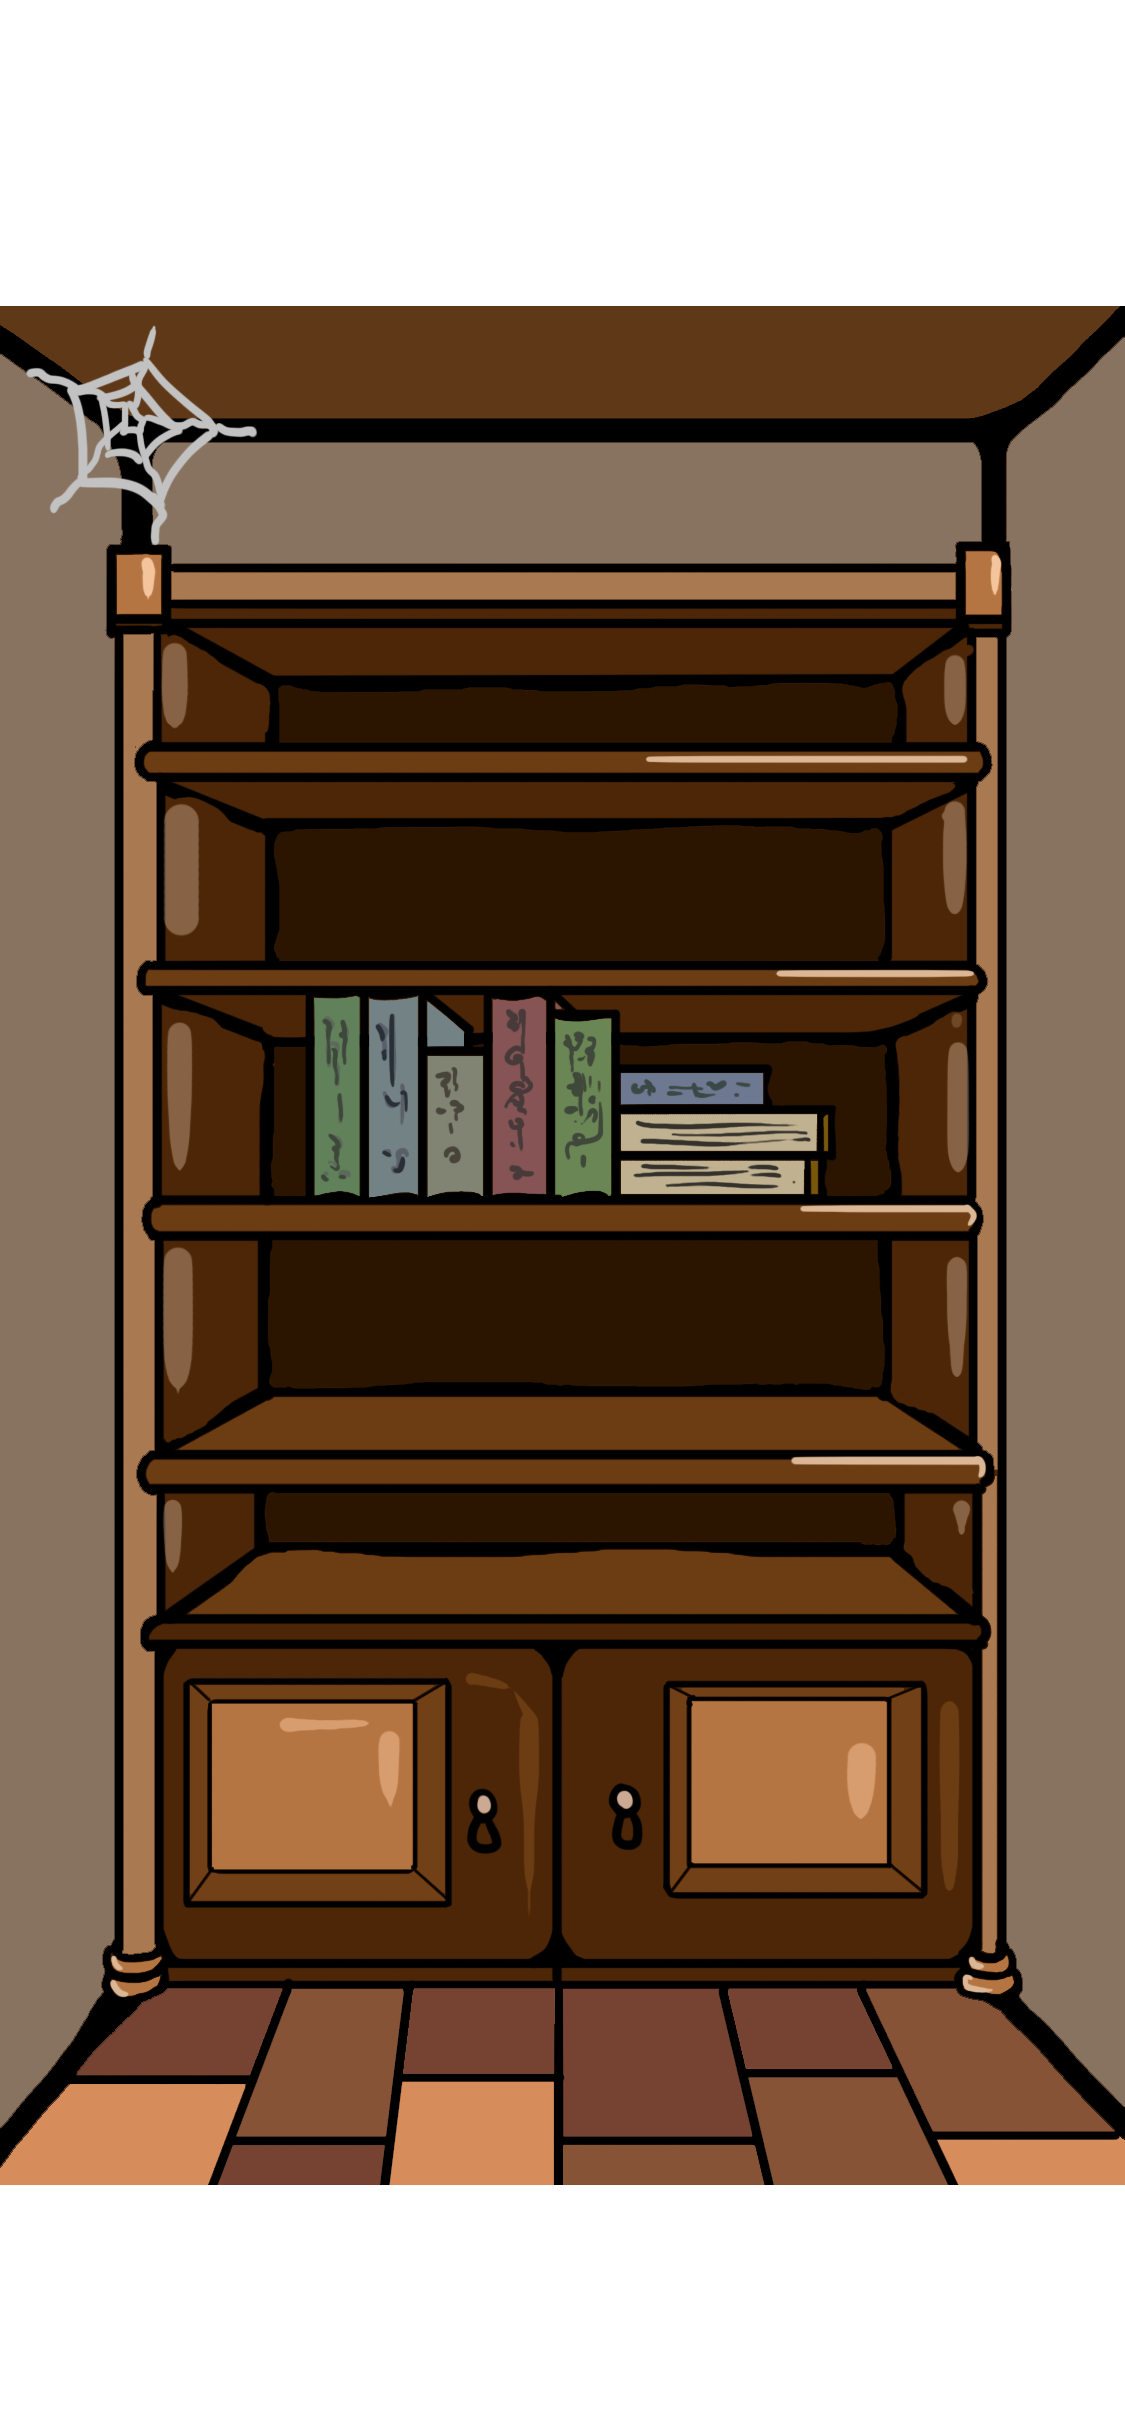
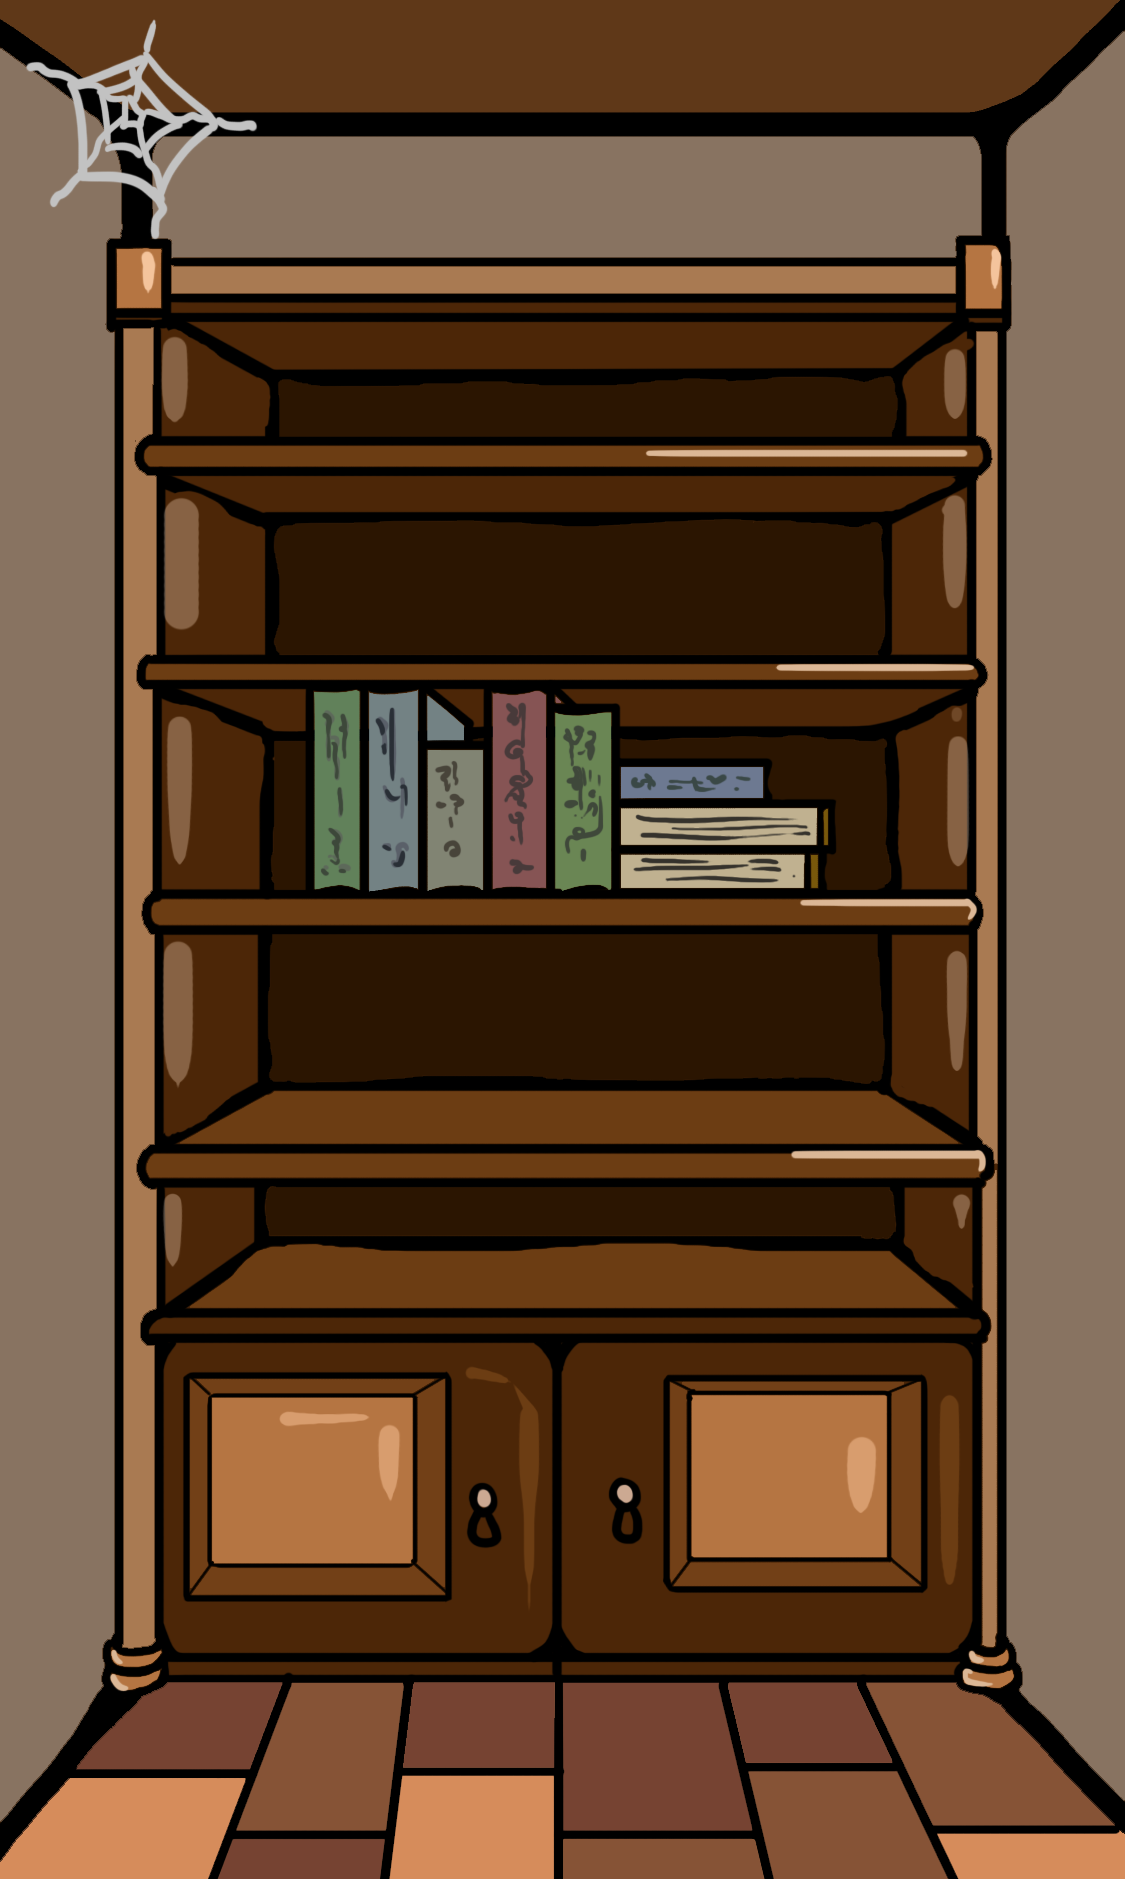
Fixed libraryFront

diff --git a/Phaser Game/js/library.js b/Phaser Game/js/library.js
@@ -7,7 +7,7 @@ let Library = function (shared, bookText)
     this.page = 0;
 
 	this.library = game.add.sprite(0,0,"library");
-	this.libraryFront = game.add.sprite(0,0,"libraryFront");
+	this.libraryFront = game.add.sprite(0,300,"libraryFront");
 
 	this.libraryObjects = [];
 	this.libraryObjects.push(game.add.sprite(217,852,"book1"));
@@ -37,7 +37,7 @@ let Library = function (shared, bookText)
     // set up some stuff for the zooming
     this.libraryFront.inputEnabled = true;
 	this.libraryFront.events.onInputUp.add(function (sprite, pointer) {
-        if(pointer.y < game.world.height - 250 && pointer.y > 306){ this.Zoom(); }
+        this.Zoom();
     }, this);
 
     for (var i = 0; i < this.libraryObjects.length; i++){
@@ -127,8 +127,8 @@ Library.prototype.Zoom = function ()
 {
 	this.library.visible = true;
 	for (var i = 0; i < this.libraryObjects.length; i++)
-    {
-        this.libraryObjects[i].visible = true;
+	{
+		this.libraryObjects[i].visible = true;
 	}
 	this.libraryFront.visible = false;
 };
